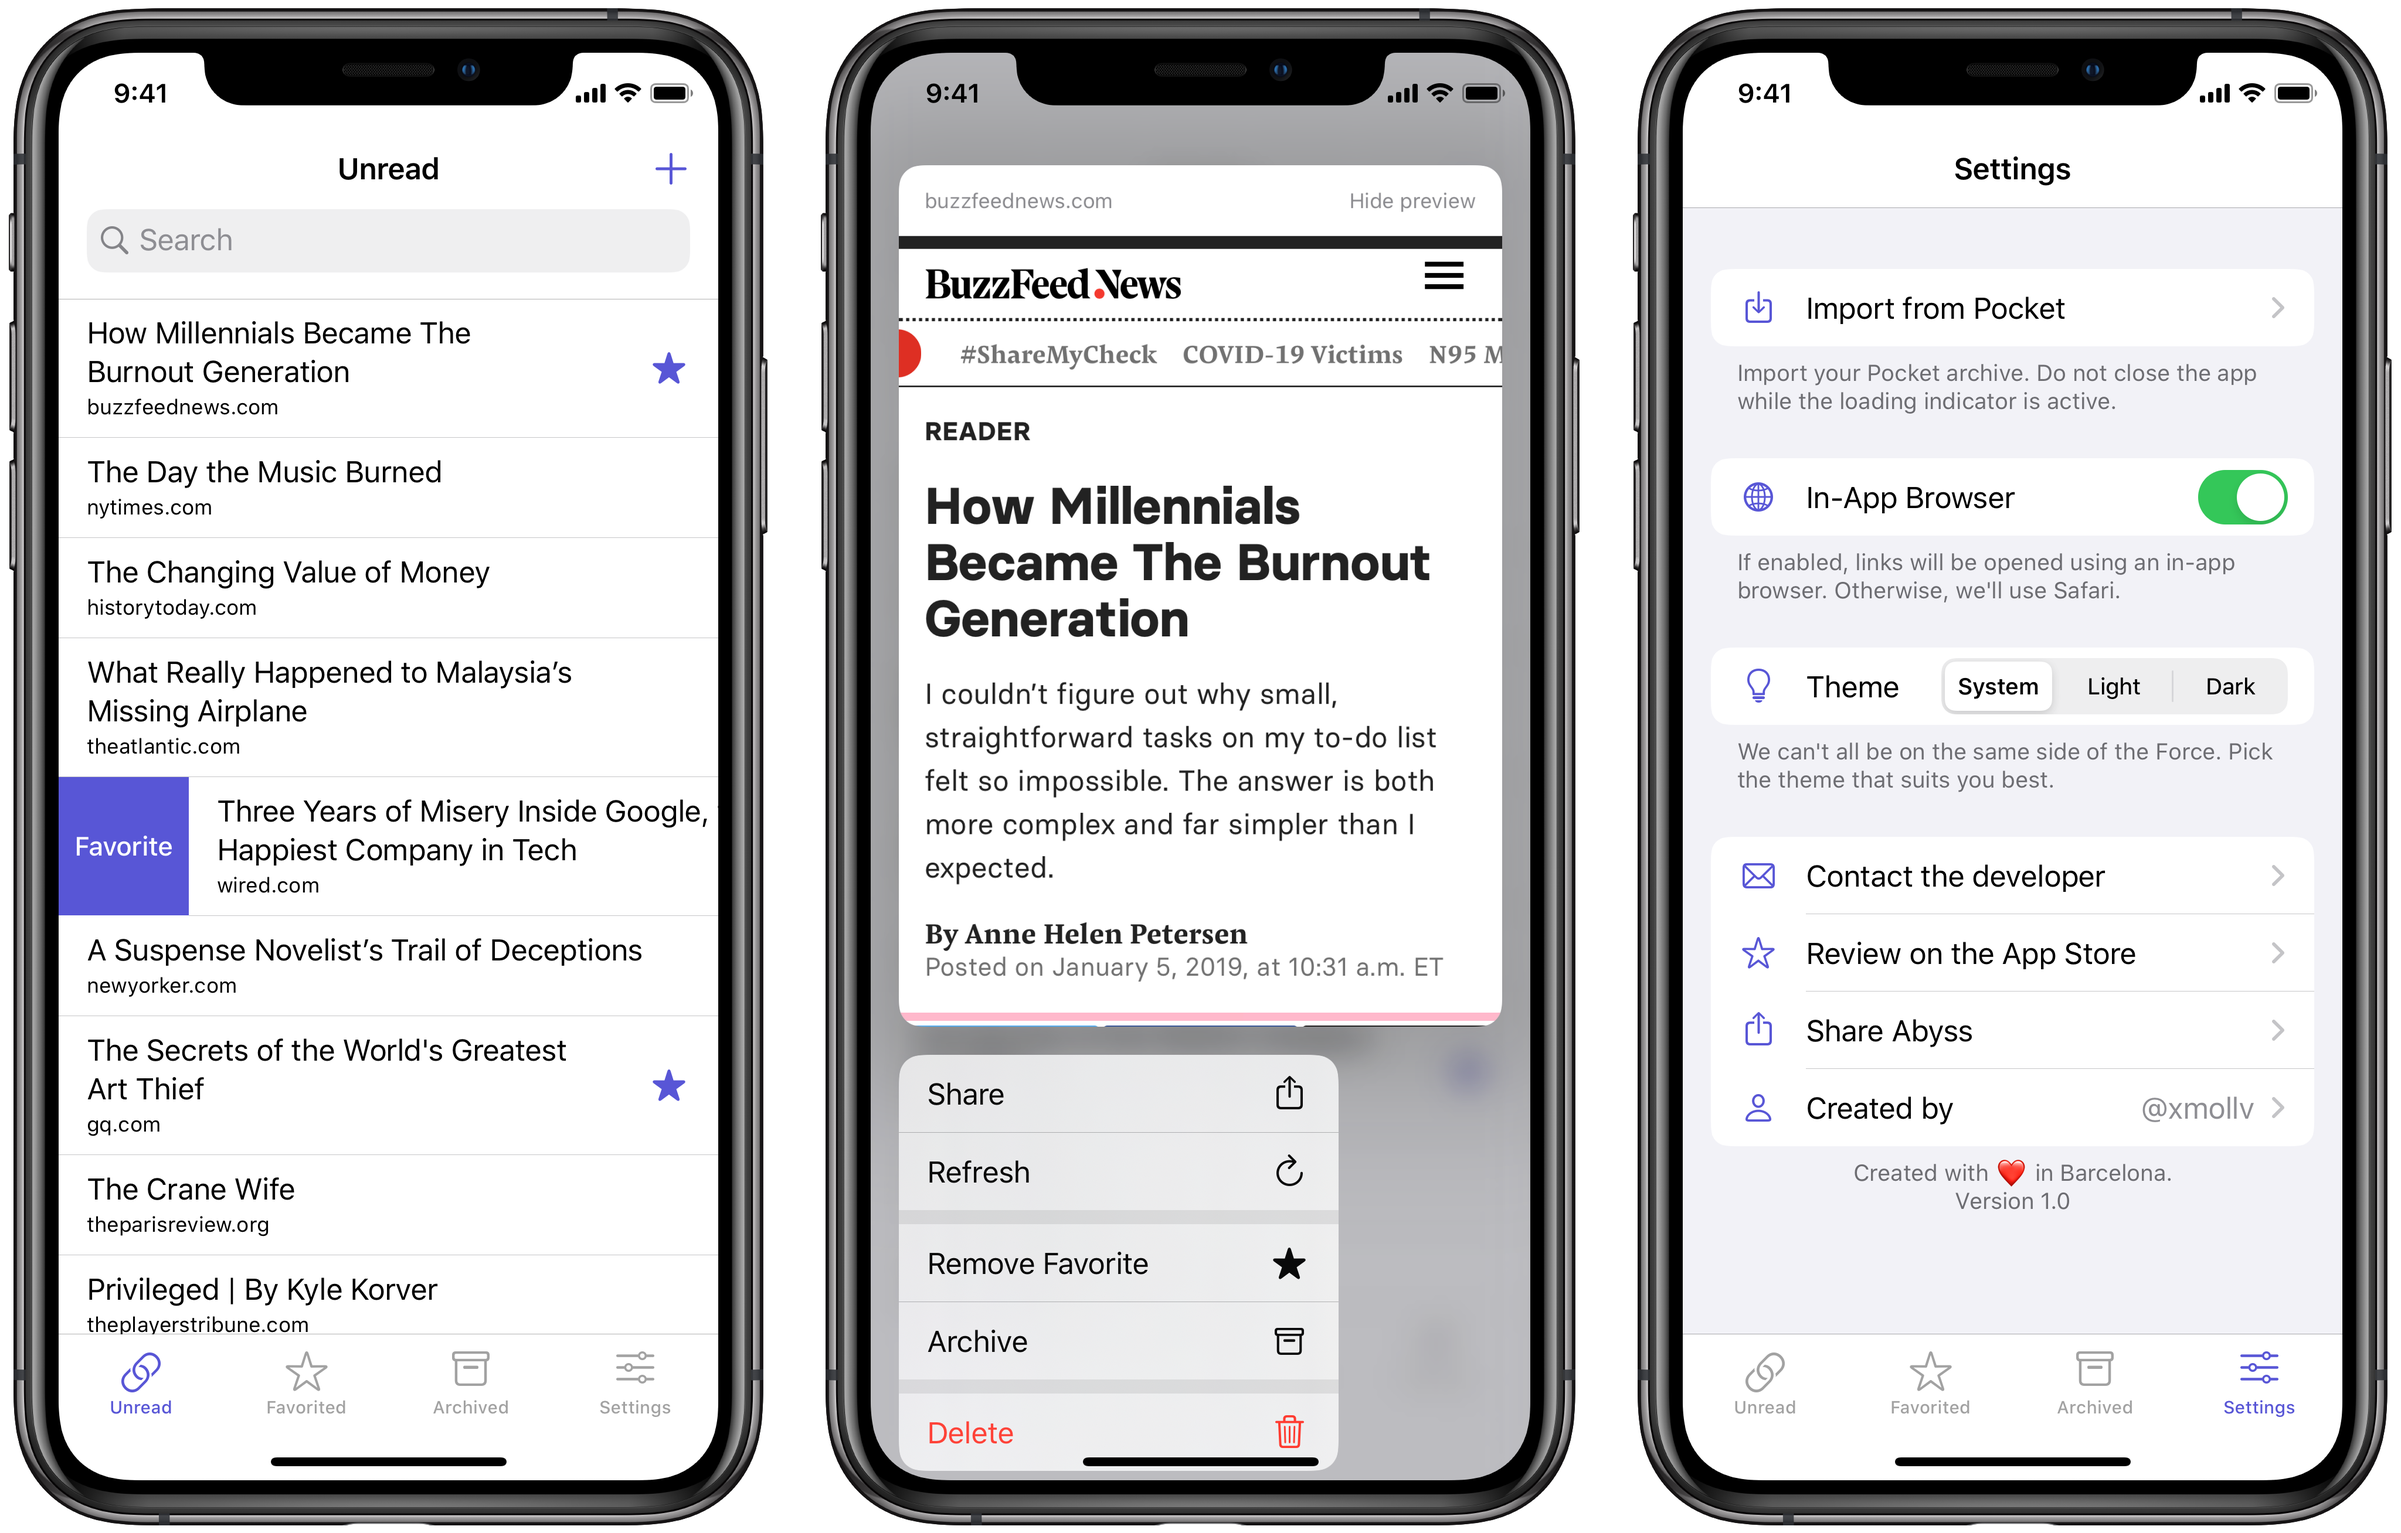
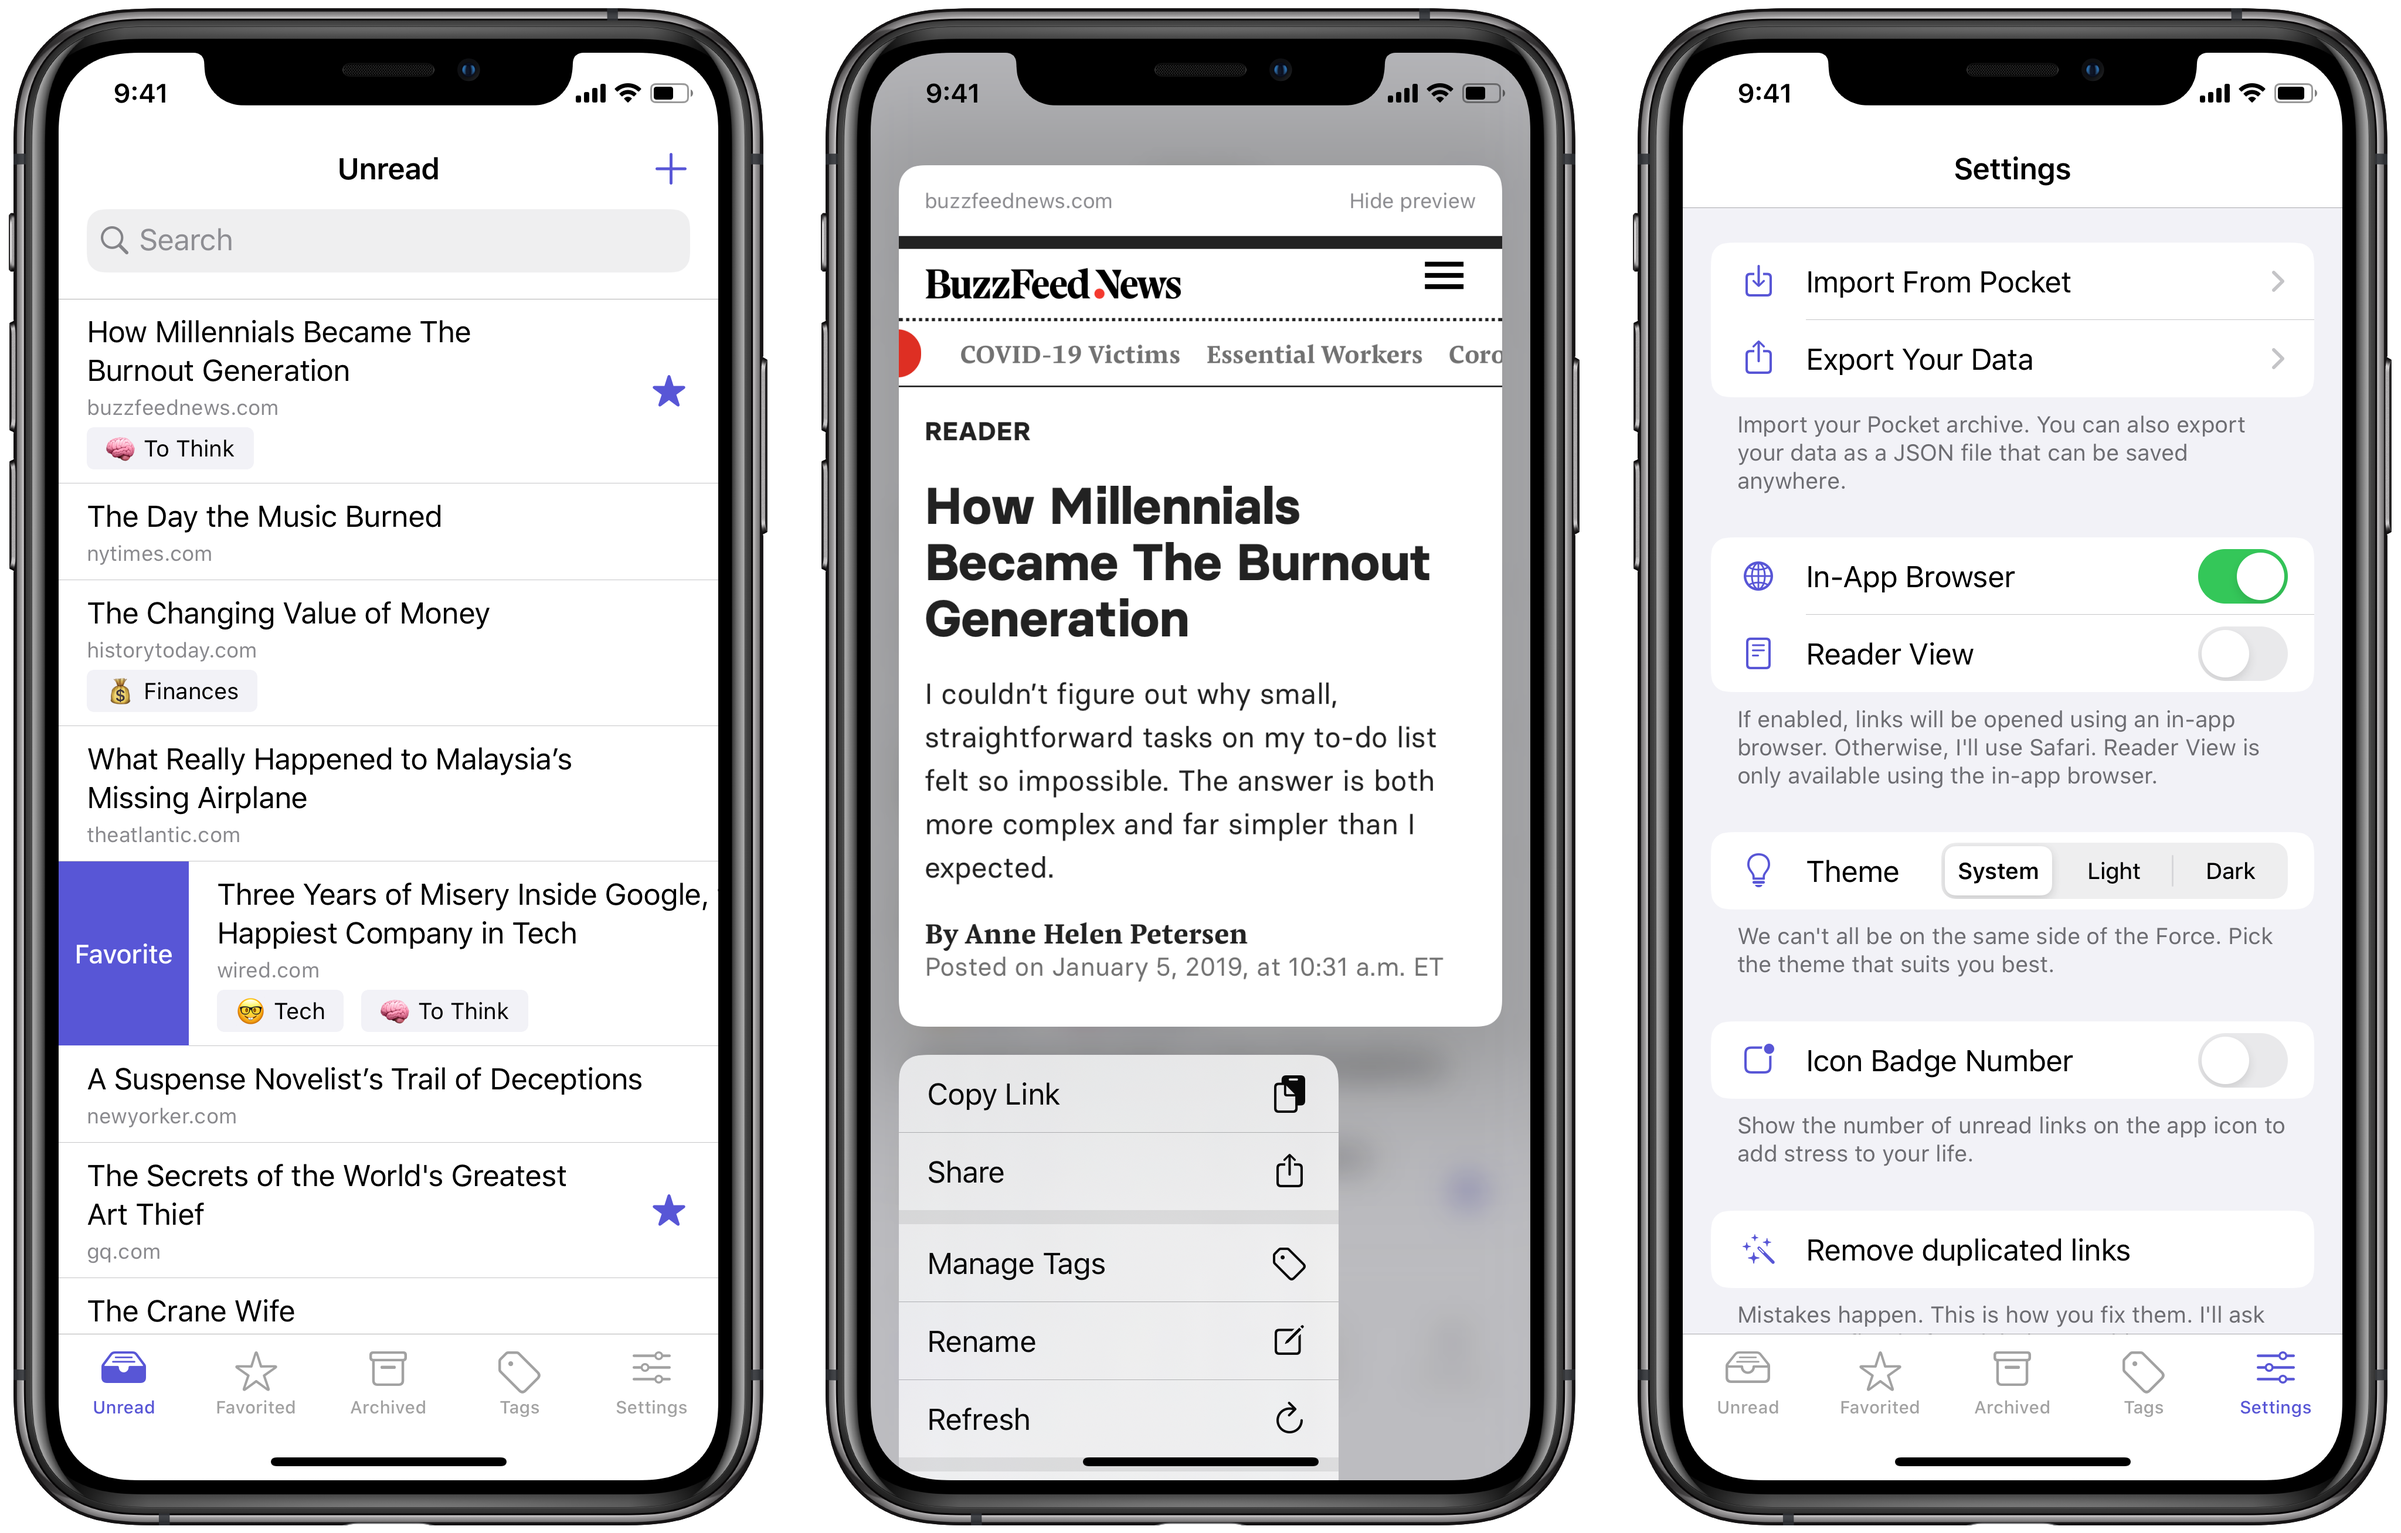
Added the new screenshots + list of features for abyss

diff --git a/index.html b/index.html
@@ -34,16 +34,22 @@
                 <h2>Personal projects</h2>
 
                 <h3 id="abyss">Abyss</h3>
-                <p>Abyss is the easiest way to store links for later reading. Every link that you store will be available to you on your iPhone, iPad and Mac, forever. We don't require you to log in on any service because we're storing all your data in iCloud. This means that only you have access to it.<p>
+                <p>Abyss is the easiest way to store links to read later. Every link that you store will be available to you on your <b>iPhone</b>, <b>iPad</b> and <b>Mac</b>, forever. We don't require you to log in on any service because we're storing all your data in iCloud. This means that only you have access to it.</p>
+
                 <ul>
                     <li>Sync between devices (iPhone, iPad, Mac) using your personal iCloud.</li>
                     <li>Privacy first. Your data belongs to you, it will never be sent to any external server.</li>
+                    <li>Export your data to keep a backup or move to another service. Your data is yours.</li>
+                    <li>Powerful tagging system.</li>
                     <li>Instant search on your entire library.</li>
                     <li>Store any link from any app by using the Share Sheet.</li>
                     <li>Take a peek at any link by simply long-pressing onto it.</li>
                     <li>Swipe actions to quickly mark links as favorite or archive them.</li>
                     <li>Contextual menus to perform advanced operations on your links.</li>
+                    <li>Batch updates for your entire archive.</li>
+                    <li>Display the number of unread items as the App Icon badge.</li>
                     <li>Pocket import: Bring all your stored links from Pocket to Abyss.</li>
+                    <li>Jump directly into Reader View when using the in-app browser.</li>
                     <li>Dynamic Text Size for those that prefer non-standard font sizes.</li>
                     <li>Choose if you want to open your links using Safari or an in-app browser.</li>
                     <li>Dark Mode. You can choose to override the system theme with your preferred one.</li>
